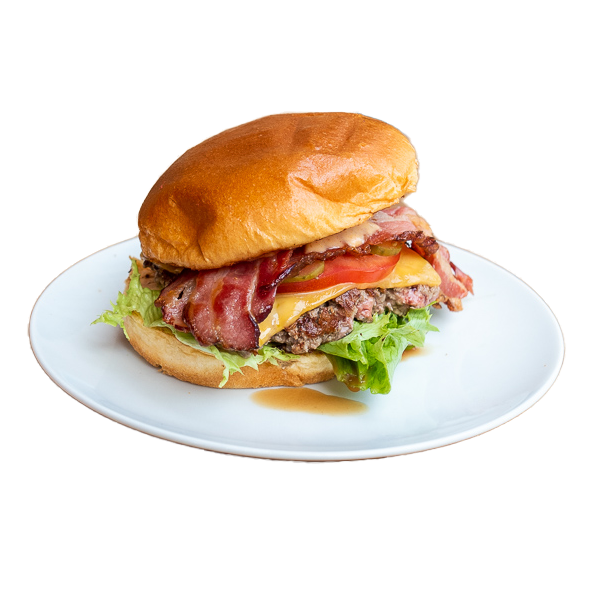
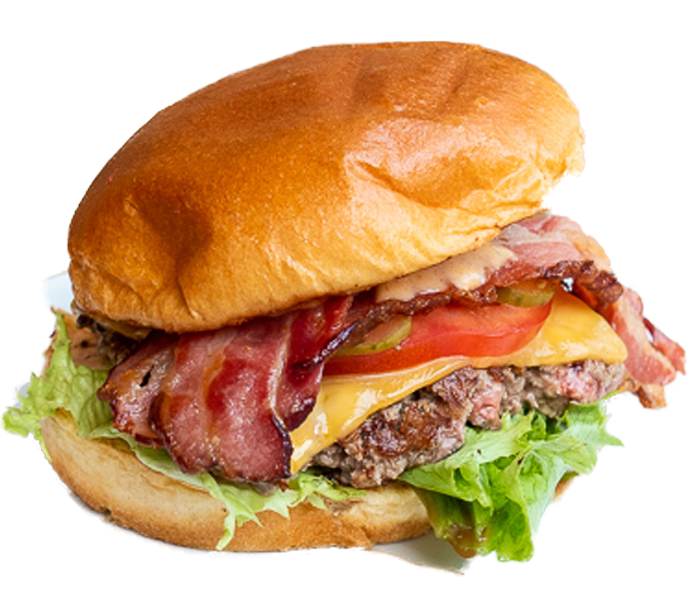
Change images of bestseller cards

diff --git a/src/components/ui/cards/BestsellerCard.module.css b/src/components/ui/cards/BestsellerCard.module.css
@@ -57,8 +57,8 @@
     padding-top: 5rem;
   }
   .thumbnail {
-    width: 15rem;
-    height: 15rem;
+    width: 14rem;
+    height: 14rem;
   }
 }
 
@@ -70,7 +70,7 @@
     padding-top: 7rem;
   }
   .thumbnail {
-    width: 18rem;
-    height: 18rem;
+    width: 16rem;
+    height: 16rem;
   }
 }
